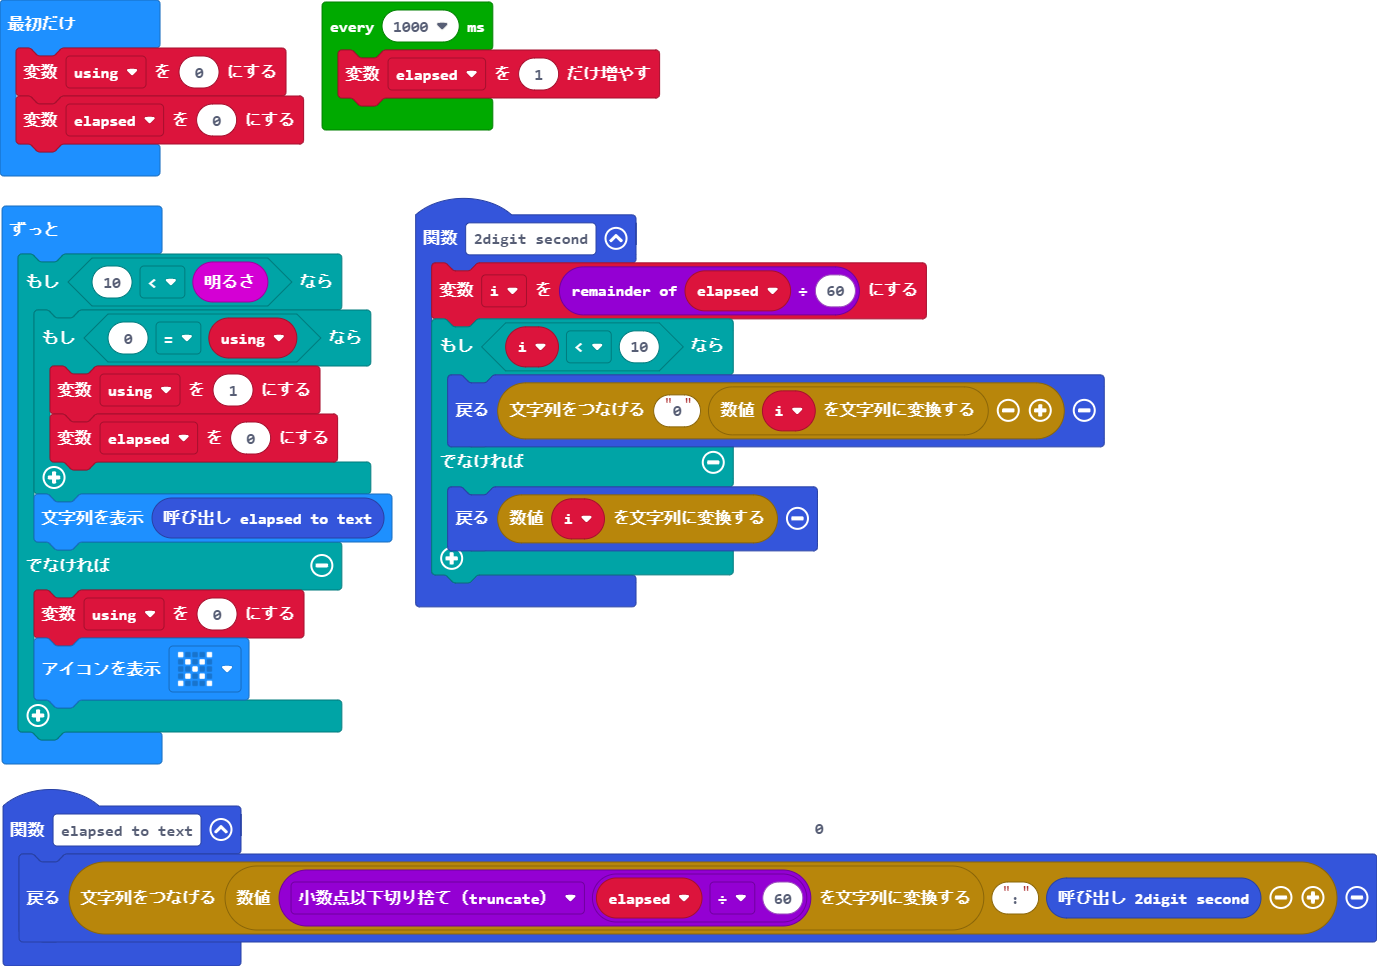
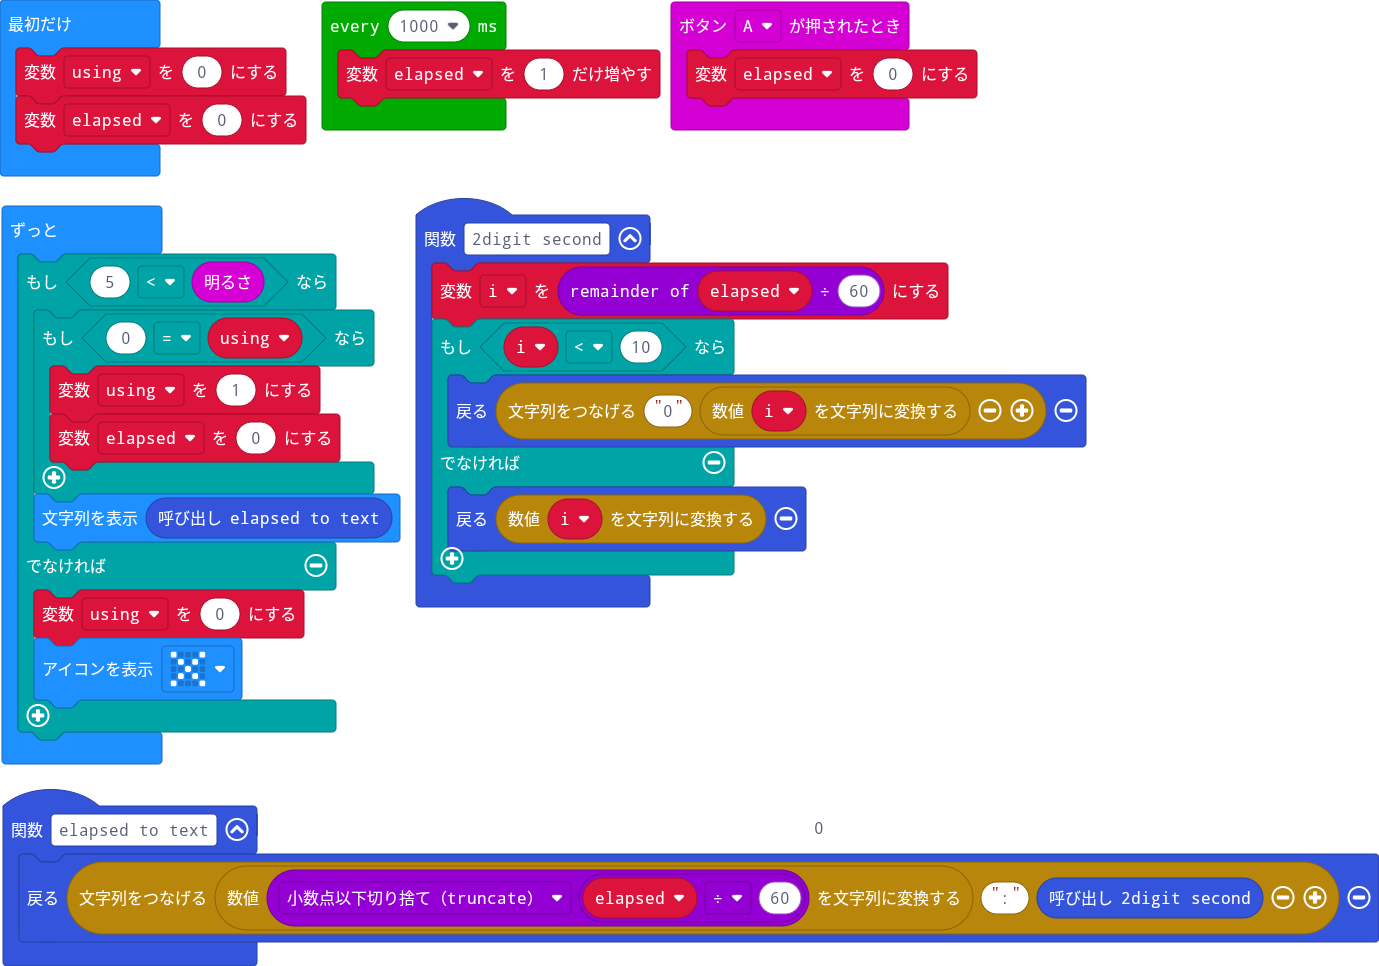
閾値の変更とボタンによるカウンターリセット

diff --git a/main.ts b/main.ts
@@ -1,3 +1,6 @@
+input.onButtonPressed(Button.A, function () {
+    elapsed = 0
+})
 function elapsed_to_text () {
     return "" + convertToText(Math.trunc(elapsed / 60)) + ":" + _2digit_second()
 }
@@ -17,7 +20,7 @@ loops.everyInterval(1000, function () {
     elapsed += 1
 })
 basic.forever(function () {
-    if (10 < input.lightLevel()) {
+    if (5 < input.lightLevel()) {
         if (0 == using) {
             using = 1
             elapsed = 0
